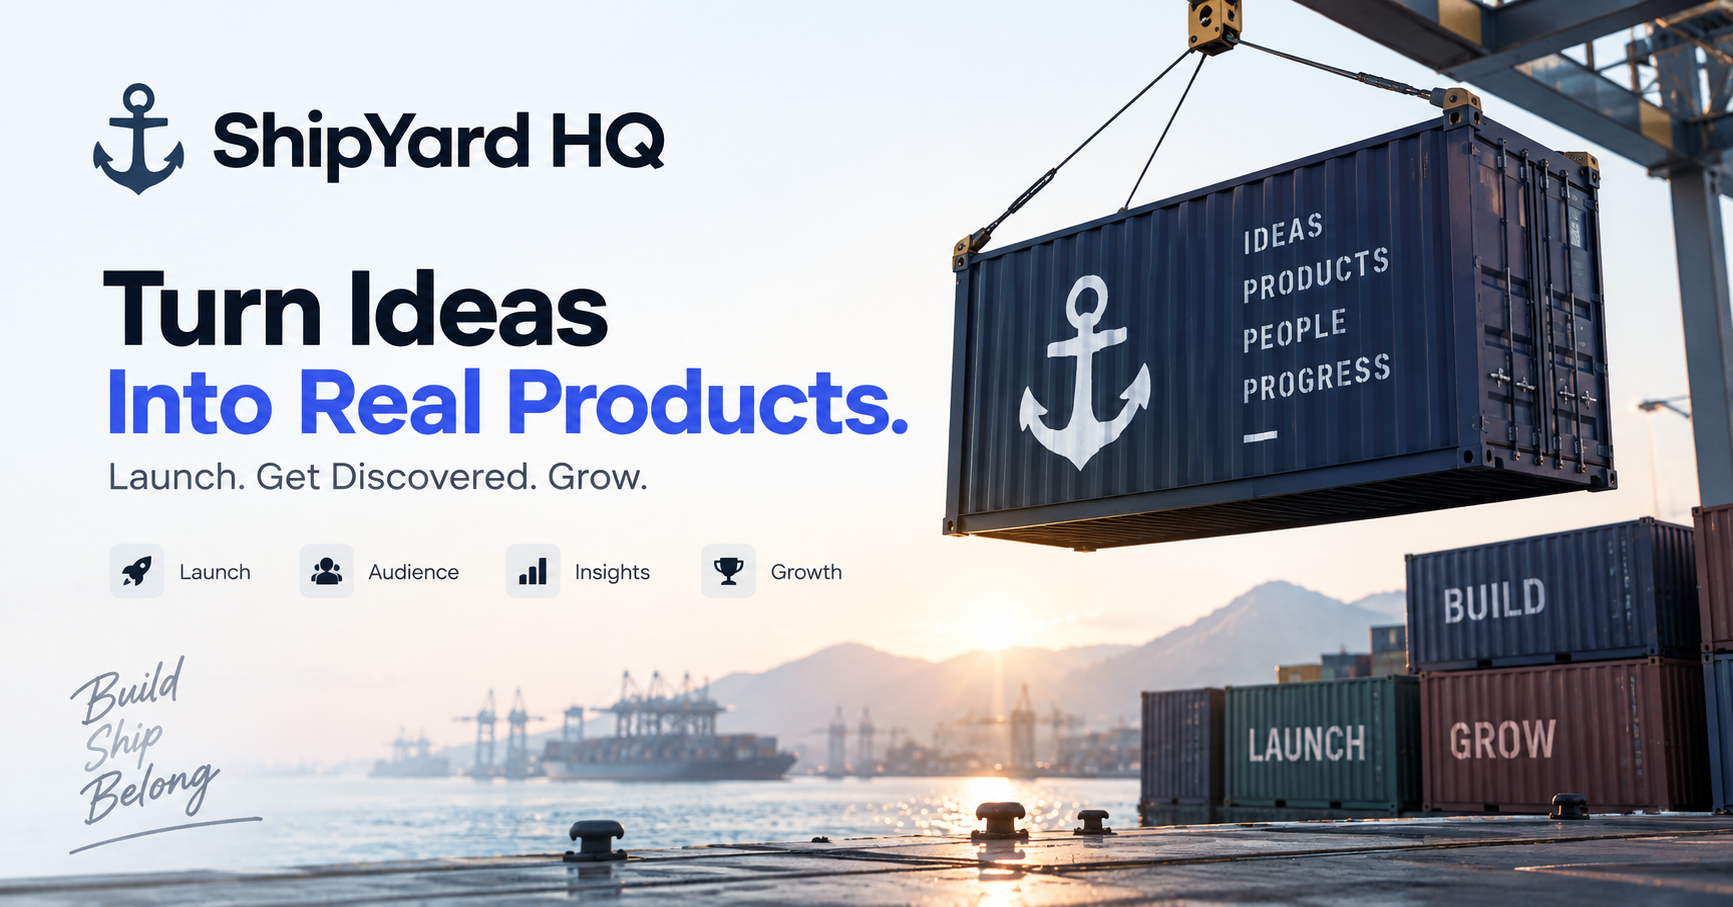
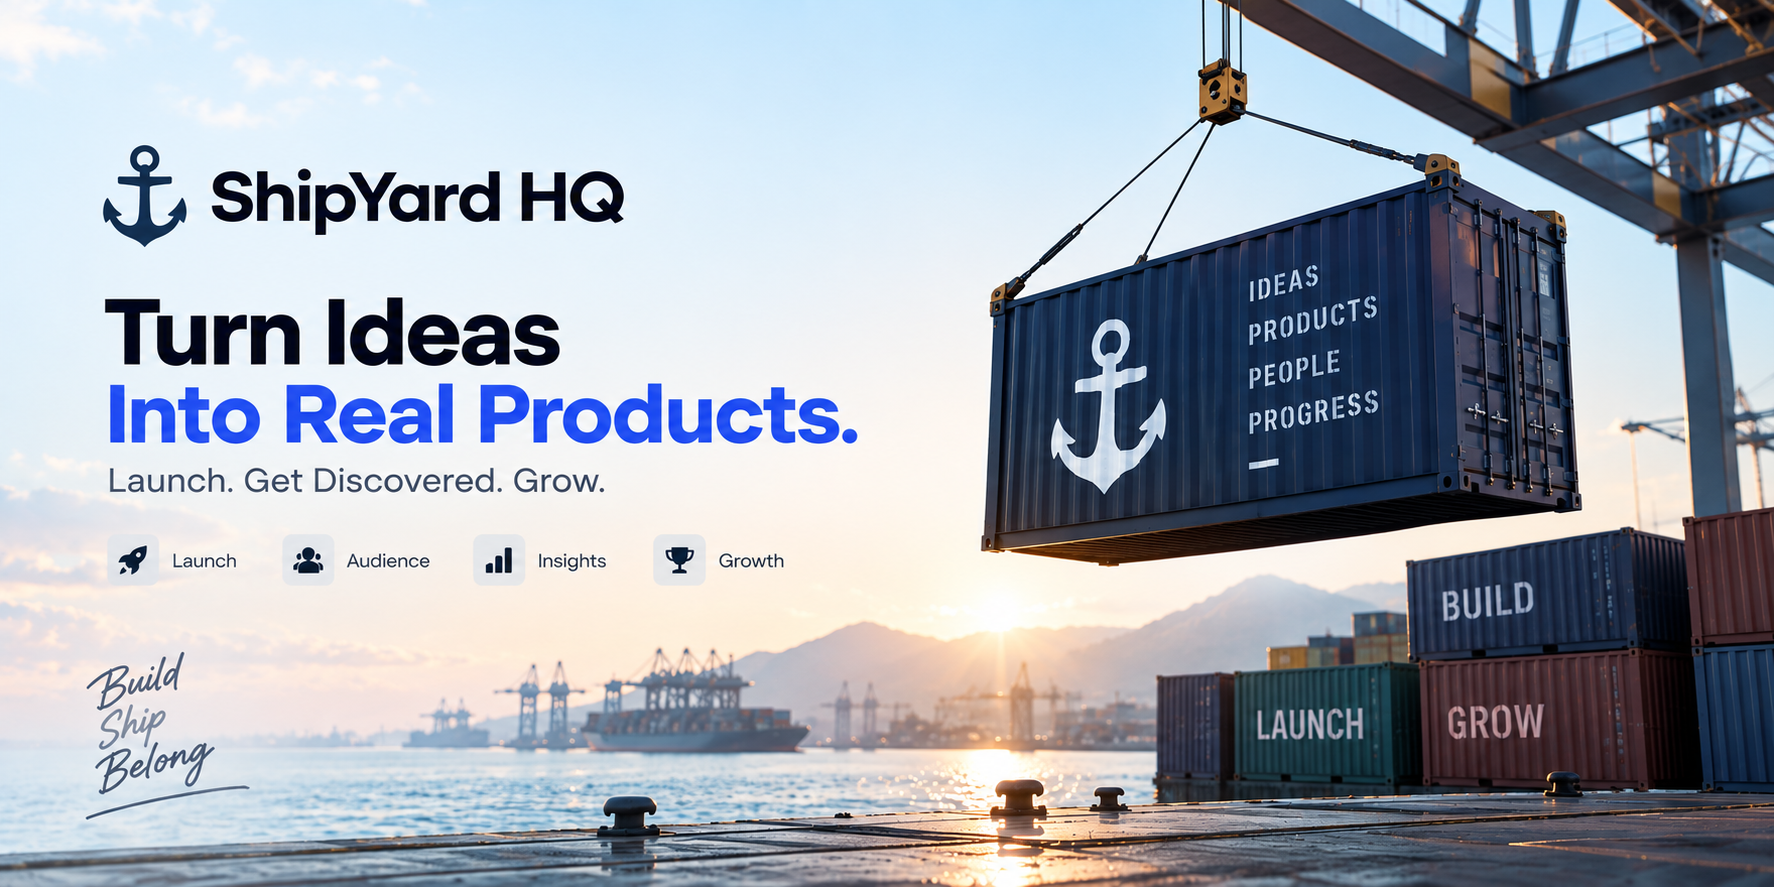
fix(seo): update OG image and matching dimensions

diff --git a/lib/siteConfig.ts b/lib/siteConfig.ts
@@ -73,8 +73,8 @@ export const buildSiteSeo = () => {
       images: [
         {
           url: absoluteOgImageUrl,
-          width: 1733,
-          height: 907,
+          width: 1774,
+          height: 887,
           type: "image/png",
           alt: `${siteConfig.name} brand mark`,
         },
